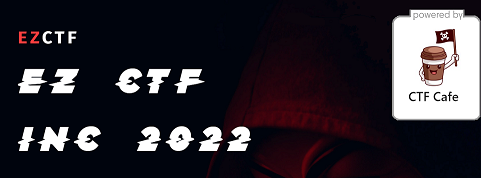
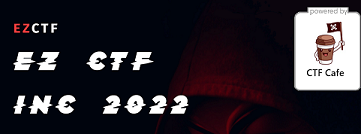
some img size changes, add hashes and writups

diff --git a/stuff/README.md b/stuff/README.md
@@ -1,16 +1,25 @@
 #### HASHES
 ```
 └─$ md5sum *                          
+c9f05404153c6fe4b574589b3557fc3b  AK.png
+06f3a1e07a1f8a77bbc62d9557becc19  message.txt
+21c0962b53cb6034dea34fc39058f691  msg.jpg
 1ea867b9def14465bb5befc23a93b481  CorruptedData.chr
 c70e738b0d1bff9db4558bdd74332753  rtr-pwneip.pcap
 21d66a887066af3a20b76cd19f6cf683  transmission.pcapng
                                                                                                                                                                                              
 └─$ sha256sum *
+03715aa5fecb27dcd40f7fc925e6b6930817e4916d892e143fb1566d25f5fe95  AK.png
+86a5fe8b25b6cdde3158cb66c38223f563ed260896431020ed5b95818861972e  message.txt
+58eef7b916087a05d03d610ab31bac5ad79c3fbf9afc9f51dadb8da4b9adfbdc  msg.jpg
 dd86ca7db1a70328d55772164fba095d2864532d15d0b49ca3b229731ca57a8e  CorruptedData.chr
 997f57790f3fdea39abe79129aa5984d7e4904b57b66c69f4feefd7413eca77f  rtr-pwneip.pcap
 97a329459d4579322a49831bc5213070a890911aa5ae78b0878b32d4998a7d8a  transmission.pcapng
                                                                                                                                                                                              
 └─$ sha512sum *
+c1df2c8a1ef0ed4e78e0e76a0171ae95da47df42549fa9361820f55fca5e3715abeb4ff9de5d58523408377d4c06856f82a79d05b5ee87d845f61af2b0d0415e  AK.png
+9583dfcde8457e664b2ec569389b9b23ddb70c61e309f6183817482e61176d889f7898ddc0dd141730695595abfaca80377dbae801dc1a49031e37be2a369b57  message.txt
+db80f4b5bca0385884d795f34ad3b3d9a2d24264c7fa5c346522eb9f4c3591325bb7840821bde4d7abc59609492f49607581475c54f062d8485d61aa0c840e9e  msg.jpg
 ee5d9d0b7b1ecbf8b04f3ce28b6ad28e88c81498fe3cd1f35175139ccf8d364f8bc0f9db80f4a76e333b4d68b86b7cb66e3475898abb4f22bbf7e9df27cb8d77  CorruptedData.chr
 1216610972106c2739c2e9b7835f1372e7e52962aec75e1b82a8d8e9e9a5599962fb8cfb5a6f9fb81fd14cc25ba499f306ad817f8c571f0d9011b75c4e1d067c  rtr-pwneip.pcap
 5290d2a3c276471df6b19c569a6772ca83466ee2197cdaa974c1ca2ab8161667bdc8c9c742866db5ec276e0747c0d370e3b868f092c89095e43fa38b3f690de9  transmission.pcapng

diff --git a/writeups.md b/writeups.md
@@ -1,38 +1,36 @@
 ![writeup](img/ctf-writeup.png)  
 
-### **11) Deloitte Hacky Holidays 2022 - Unlock the City**  
+---
+
+### **10) CTF GDG Algiers 2022**  
+![gdgalgiers](img/gdgalgiers.png)  
+>Official page: https://www.gdgalgiers.com/  
+>CTFTime Event ID: [1745](https://ctftime.org/event/1745)   
+>Challenge name: PORTAL (Misc)   
+>[Writeup Link](https://leonuz.github.io/blog/Postal/)  
+>Challenge name: Intruder (Misc)   
+>[Writeup Link](https://leonuz.github.io/blog/Intruder/)  
+
+---
+
+### **9) Deloitte Hacky Holidays 2022 - Unlock the City**  
 ![Deloitte2](img/HH.png)  
 >Official page: https://hackyholidays.io/  
 >CTFTime Event ID: [1687](https://ctftime.org/event/1687)   
 >Challenge name: SECRET CONVE.RSA.TIONS (Crypto)   
 >[Writeup Link](https://leonuz.github.io/blog/SECRET-CONVE.RSA.TIONS/)  
 >`Winner top-10 Best Write-up` 
----
-
-### **10) BCACTF 2022**  
-![BCACTF](img/bca22.png)  
->Official page: https://bcactf.com/     
->CTFTime Event ID: [1602](https://ctftime.org/event/1602)   
->Challenge name: Jason's Tarot 3 (WEB)   
->[Writeup Link](https://leonuz.github.io/blog/Jasons-Tarot-3/)  
 
 ---
 
-### **9) BCACTF 2022**  
+### **8) BCACTF 2022**  
 ![BCACTF](img/bca22.png)  
 >Official page: https://bcactf.com/   
 >CTFTime Event ID: [1602](https://ctftime.org/event/1602)   
 >Challenge name: Jason's Web Tarot 2 (WEB)   
 >[Writeup Link](https://leonuz.github.io/blog/Jasons-Web-Tarot-2/)  
-
----
-
-### **8) EZ-CTF 2022**  
-![cafeCTF](img/cafe.png)  
->Official page: https://ez.ctf.cafe/    
->CTFTime Event ID: [1655](https://ctftime.org/event/1655)   
->Challenge name: Qweauty and the Beast (Crypto)   
->[Writeup Link](https://ctftime.org/writeup/33675)  
+>Challenge name: Jason's Web Tarot 2 (WEB)   
+>[Writeup Link](https://leonuz.github.io/blog/Jasons-Web-Tarot-2/)  
 
 ---
 
@@ -42,6 +40,8 @@
 >CTFTime Event ID: [1655](https://ctftime.org/event/1655)   
 >Challenge name: I made a Blog! (WEB)   
 >[Writeup Link](https://leonuz.github.io/blog/I-made-a-blog/)  
+>Challenge name: Qweauty and the Beast (Crypto)   
+>[Writeup Link](https://ctftime.org/writeup/33675)  
 
 ---
 
